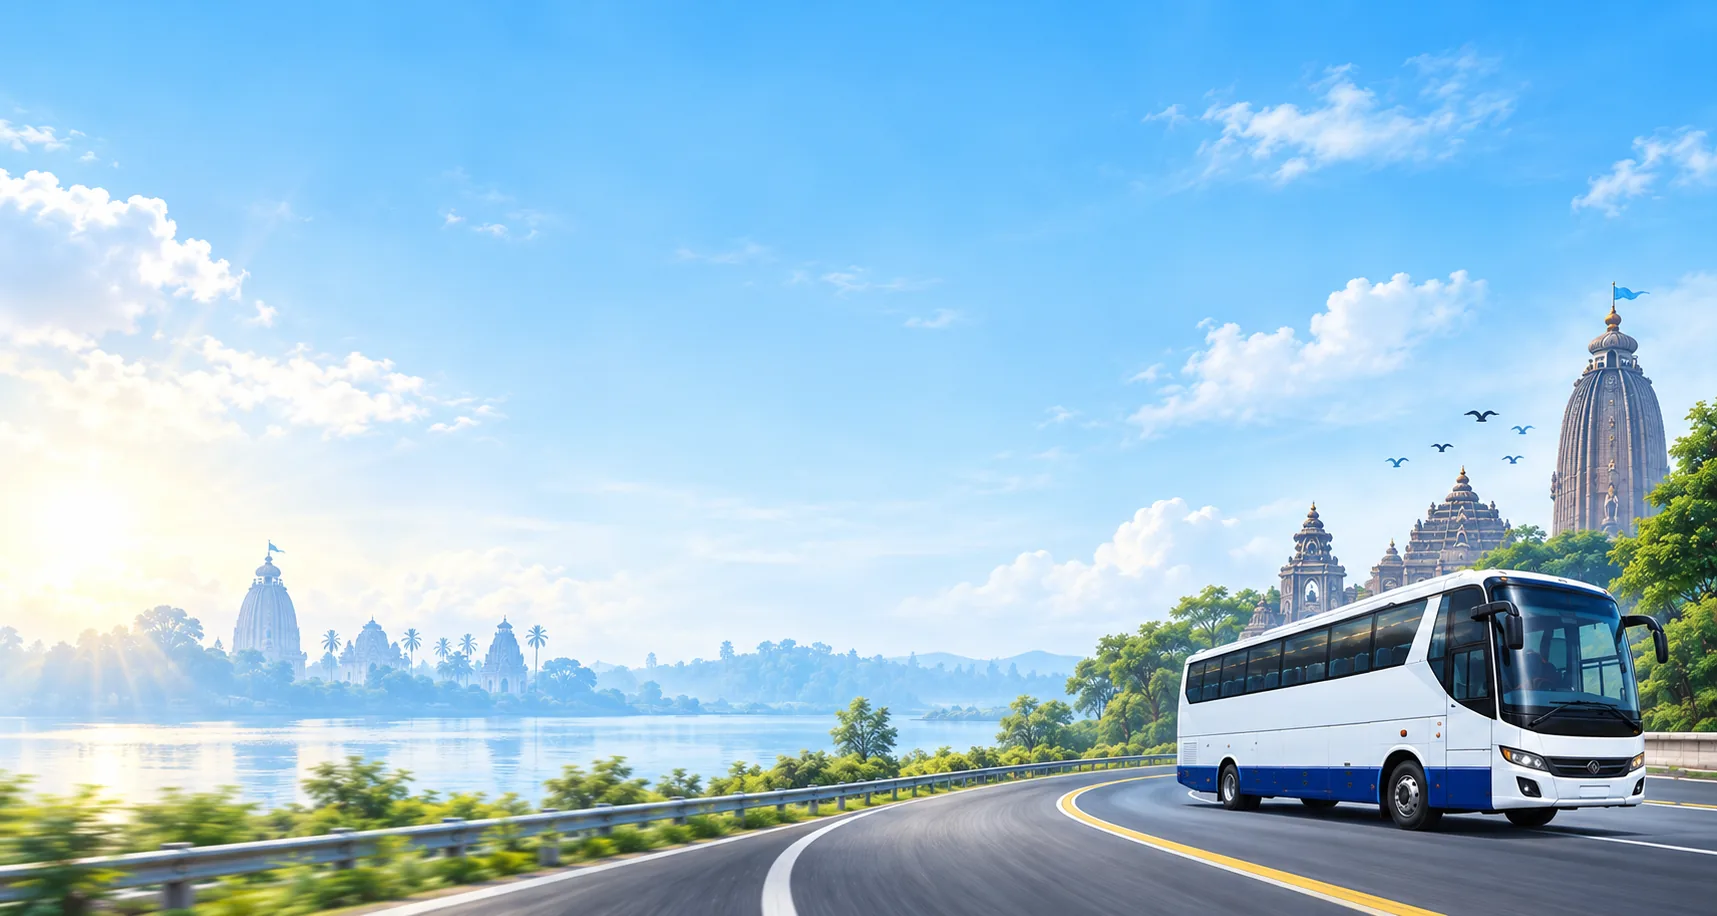
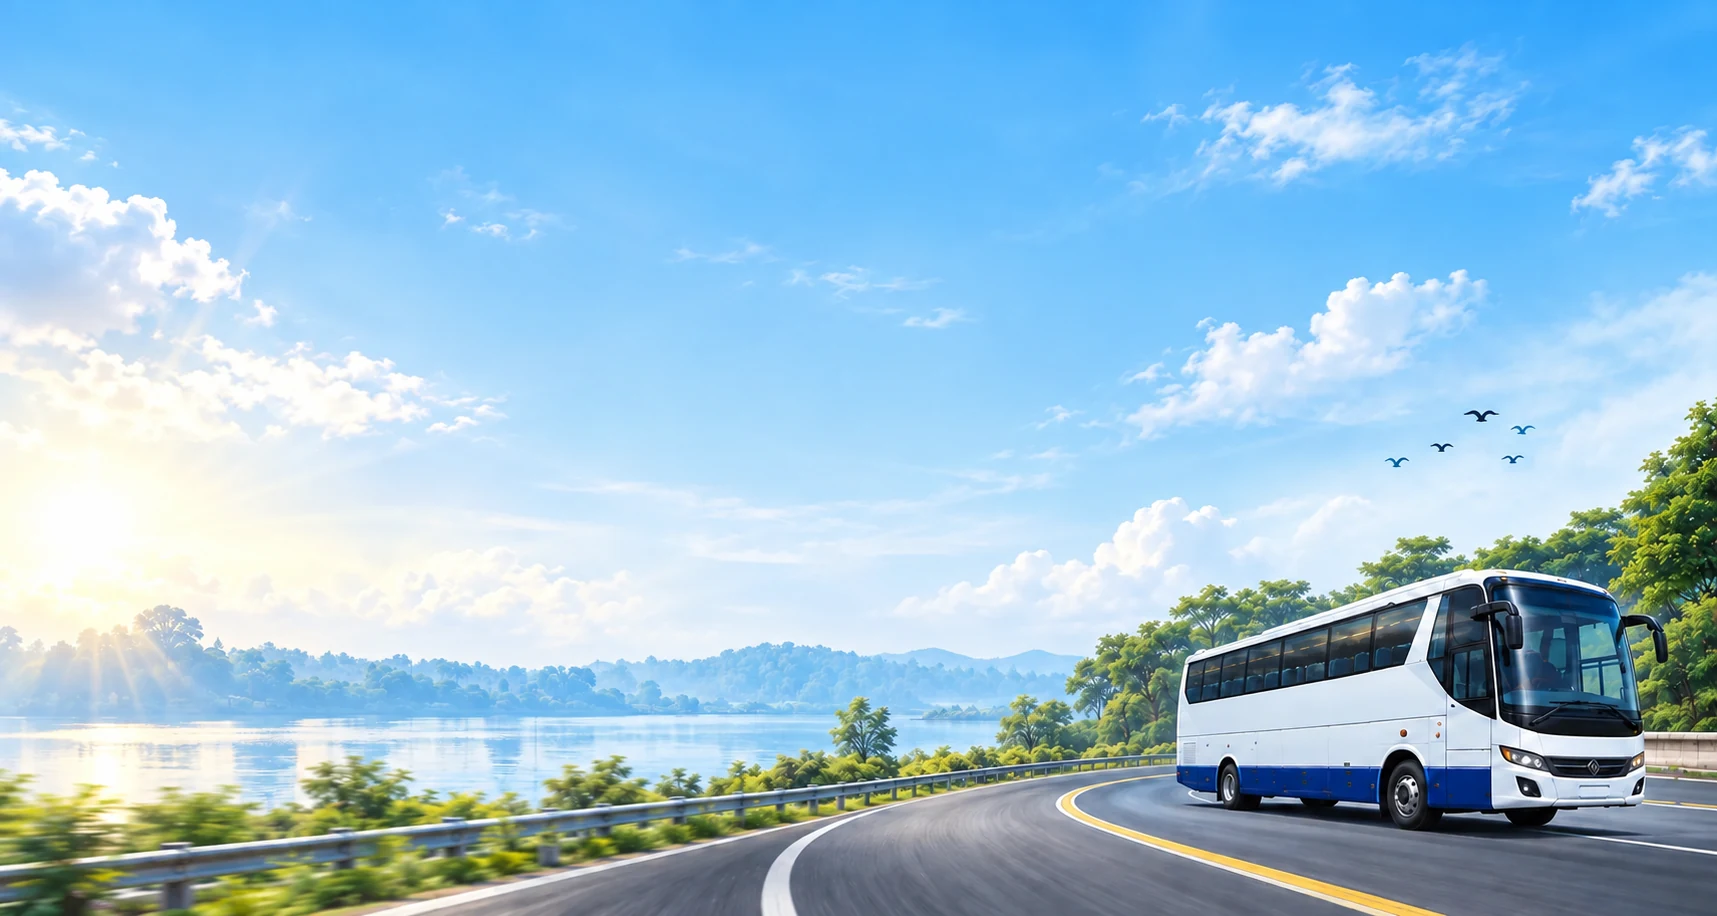
booking & success page work

diff --git a/src/app/booking/booking.component.ts b/src/app/booking/booking.component.ts
@@ -623,6 +623,7 @@ export class BookingComponent implements OnInit {
 
   submitForm2() {
 
+    this.captchaSubmitted = true;
     this.submitted2 = true;
     if (this.bookForm2.invalid) {
       return;
@@ -695,6 +696,7 @@ export class BookingComponent implements OnInit {
 
       if (this.captchaValidated == false) {
         this.notify.notify("Captch is not validated", "Error");
+        this.blankCaptcha()
         return;
       }
 
@@ -1125,6 +1127,7 @@ export class BookingComponent implements OnInit {
   captchaResult: number;
   errorMessage: string;
   captchaValidated: boolean = false;
+  captchaSubmitted = false;
 
   generateCaptcha(): void {
     this.number1 = Math.floor(Math.random() * 10) + 1;
@@ -1136,6 +1139,7 @@ export class BookingComponent implements OnInit {
   }
 
   validateCaptcha(): void {
+    this.captchaSubmitted = true;
     if (this.bookForm2.value.userInput == this.captchaResult) {
       this.errorMessage = '';
       this.captchaValidated = true;
@@ -1148,22 +1152,123 @@ export class BookingComponent implements OnInit {
 
   }
 
-  async cashfressRedirect() {
-    // console.log(this.MakePaymnetResponse);
-    //console.log(this.MakePaymnetResponse.razorpay_order_id.payment_session_id);
-    //console.log(this.MakePaymnetResponse.razorpay_order_id.receipt_id);
-    const cashfree = await load({
-      mode: GlobalConstants.PAYMENT_MODE //production , sandbox
+  blankCaptcha(): void {
+
+    this.captchaSubmitted = true;
+    this.captchaValidated = false;
+
+    const captchaControl = this.bookForm2.get('userInput');
+
+    captchaControl?.setErrors({
+      captchaRequired: true
     });
-    const checkOptions = {
-      paymentSessionId: this.MakePaymnetResponse.razorpay_order_id.payment_session_id,
-      redirectTarget: "_modal" // _blank , _self
+
+    captchaControl?.markAsTouched();
+
+    this.errorMessage = 'Please enter the captcha answer.';
+  }
+
+  onCaptchaInput(): void {
+    const value = this.bookForm2.get('userInput')?.value;
+
+    if (value === null || value === '') {
+      this.captchaValidated = false;
+      this.captchaSubmitted = true;
+      this.errorMessage = 'Please enter the captcha answer.';
     }
+  }
+
+  redirectToBusRoute(): void {
+    const journeyDate = localStorage.getItem('entdate');
+
+    if (journeyDate) {
+      const dateParts = journeyDate.trim().split('-');
+
+      let formattedDate = journeyDate.trim();
+
+      // Convert YYYY-MM-DD → DD-MM-YYYY
+      if (
+        dateParts.length === 3 &&
+        dateParts[0].length === 4
+      ) {
+        formattedDate = `${dateParts[2]}-${dateParts[1]}-${dateParts[0]}`;
+      }
+
+      this.router.navigate(
+        ['/routes/bhubaneswar-digha-bus-services'],
+        {
+          queryParams: {
+            date: formattedDate
+          },
+          replaceUrl: true
+        }
+      );
+    } else {
+      this.router.navigate(['/'], { replaceUrl: true });
+    }
+  }
+
+  // async cashfressRedirect() {
+  //   // console.log(this.MakePaymnetResponse);
+  //   //console.log(this.MakePaymnetResponse.razorpay_order_id.payment_session_id);
+  //   //console.log(this.MakePaymnetResponse.razorpay_order_id.receipt_id);
+  //   const cashfree = await load({
+  //     mode: GlobalConstants.PAYMENT_MODE //production , sandbox
+  //   });
+  //   const checkOptions = {
+  //     paymentSessionId: this.MakePaymnetResponse.razorpay_order_id.payment_session_id,
+  //     redirectTarget: "_modal" // _blank , _self
+  //   }
+
+  //   cashfree.checkout(checkOptions).then((result) => {
+  //     if (result.error) {
+  //       alert('payment failed');
+  //     }
+  //     if (result.paymentDetails) {
+
+  //       this.spinner.show();
+
+  //       this.bookticketService.setBookingData({
+  //         name: this.passengerData.customerInfo.name,
+  //         email: this.passengerData.customerInfo.email,
+  //         phone: this.passengerData.customerInfo.phone,
+  //         receipt_id: this.MakePaymnetResponse.razorpay_order_id.receipt_id,
+  //         ticket_amount: this.MakePaymnetResponse.amount,
+  //         pnr: this.bookTicketResponse.pnr
+  //       });
+
+  //       this.router.navigate(['/success']);
+
+  //       this.spinner.hide();
+  //     }
+
+  //   });
+  // }
+
+  async cashfressRedirect() {
+
+    const cashfree = await load({
+      mode: GlobalConstants.PAYMENT_MODE
+    });
+
+    const checkOptions = {
+      paymentSessionId:
+        this.MakePaymnetResponse.razorpay_order_id.payment_session_id,
+
+      redirectTarget: "_modal"
+    };
 
     cashfree.checkout(checkOptions).then((result) => {
+
+      // Payment failed
       if (result.error) {
-        alert('payment failed');
+        console.log('Cashfree payment error:', result.error);
+
+        this.redirectToBusRoute();
+        return;
       }
+
+      // Payment successful
       if (result.paymentDetails) {
 
         this.spinner.show();
@@ -1172,7 +1277,8 @@ export class BookingComponent implements OnInit {
           name: this.passengerData.customerInfo.name,
           email: this.passengerData.customerInfo.email,
           phone: this.passengerData.customerInfo.phone,
-          receipt_id: this.MakePaymnetResponse.razorpay_order_id.receipt_id,
+          receipt_id:
+            this.MakePaymnetResponse.razorpay_order_id.receipt_id,
           ticket_amount: this.MakePaymnetResponse.amount,
           pnr: this.bookTicketResponse.pnr
         });
@@ -1180,10 +1286,21 @@ export class BookingComponent implements OnInit {
         this.router.navigate(['/success']);
 
         this.spinner.hide();
+        return;
       }
+
+      // User closed Cashfree / pressed back
+      this.redirectToBusRoute();
+
+    }).catch((error) => {
+
+      console.log('Cashfree checkout closed/error:', error);
+
+      this.redirectToBusRoute();
 
     });
   }
+
 
   pageTitle: any;
   pageContent: any;

diff --git a/src/app/booking/booking.component.html b/src/app/booking/booking.component.html
@@ -467,7 +467,7 @@
 
             <div class="mobile-coupon-input-row">
 
-              <input type="text" autocomplete="off" formControlName="coupon_code" placeholder="ENTER COUPON CODE"
+              <input type="search" autocomplete="off" formControlName="coupon_code" placeholder="ENTER COUPON CODE"
                 style="text-transform: uppercase;" />
 
               <button type="submit" [disabled]="!couponForm.valid">
@@ -622,7 +622,9 @@
               <div class="captcha-container">
                 <label for="captcha-input">What is {{ number1 }} + {{ number2 }}?</label>
                 <div class="captcha-input-group">
-                  <input type="number" id="captcha-input" formControlName="userInput" placeholder="Enter your answer" />
+                  <!-- <input type="number" id="captcha-input" formControlName="userInput" placeholder="Enter your answer" /> -->
+                  <input type="number" id="captcha-input" formControlName="userInput" placeholder="Enter your answer" (input)="onCaptchaInput()"
+                    [class.captcha-invalid]="captchaSubmitted && !captchaValidated" />
                   <button class="btn btn-blue" type="button" (click)="validateCaptcha()">
                     Verify
                   </button>
@@ -2288,7 +2290,7 @@
 
                             <i class="fas fa-ticket-alt"></i>
 
-                            <input type="text" autocomplete="off" formControlName="coupon_code"
+                            <input type="search" autocomplete="off" formControlName="coupon_code"
                               placeholder="Have a Coupon code?" style="text-transform: uppercase;" />
 
                           </div>
@@ -2378,7 +2380,8 @@
                       <div class="captcha-answer-row">
 
                         <input type="number" id="captcha-input" formControlName="userInput"
-                          placeholder="Enter your answer" />
+                          placeholder="Enter your answer" (input)="onCaptchaInput()"
+                          [class.captcha-invalid]="captchaSubmitted && !captchaValidated" />
 
 
                         <button type="button" class="captcha-verify-btn" (click)="validateCaptcha()">

diff --git a/src/app/booking/booking.component.css b/src/app/booking/booking.component.css
@@ -1128,6 +1128,10 @@ Premium Fare Card
   flex-shrink: 0;
 }
 
+#captcha-input.captcha-invalid {
+  border: 1px solid red !important;
+}
+
 .verify-btn {
   padding: 0 18px;
 }
@@ -1149,7 +1153,7 @@ Premium Fare Card
 .captcha-error {
   margin-top: 12px;
   color: #dc3545;
-  font-size: 14px;
+  font-size: 13px;
   font-weight: 500;
 }
 
@@ -2145,7 +2149,7 @@ Journey Details Card
 .captcha-question {
   color: #072c6b;
 
-  font-size: 12px;
+  font-size: 14px;
 
   font-weight: 700;
 
@@ -2213,7 +2217,7 @@ Journey Details Card
   padding: 0 12px;
   border: none;
   border-radius: 6px;
-  background: #006ecf;
+  background: #072c6b;
   color: #ffffff;
   font-size: 10px;
   font-weight: 700;
@@ -2228,12 +2232,14 @@ Journey Details Card
 
 .captcha-error {
   color: #dc3545;
+  font-size: 12px;
+  font-weight: 600;
 }
 
 .captcha-success {
   color: #198754;
-
   font-weight: 600;
+  font-size: 14px;
 }
 
 .captcha-success i {

diff --git a/src/app/footer/footer.component.html b/src/app/footer/footer.component.html
@@ -35,6 +35,8 @@
           <a routerLink="/terms-conditions">Terms & Conditions</a>
           <a routerLink="/cancelation-policy">Cancellation Policy</a>
           <!-- <a routerLink="/careers">Careers</a> -->
+          <a target="_blank" href="https://operator.odbus.in">Operator Login</a>
+          <a target="_blank" href="https://agent.odbus.in">Agent Login</a>
           <a routerLink="/blog">Blogs</a>
 
         </div>
